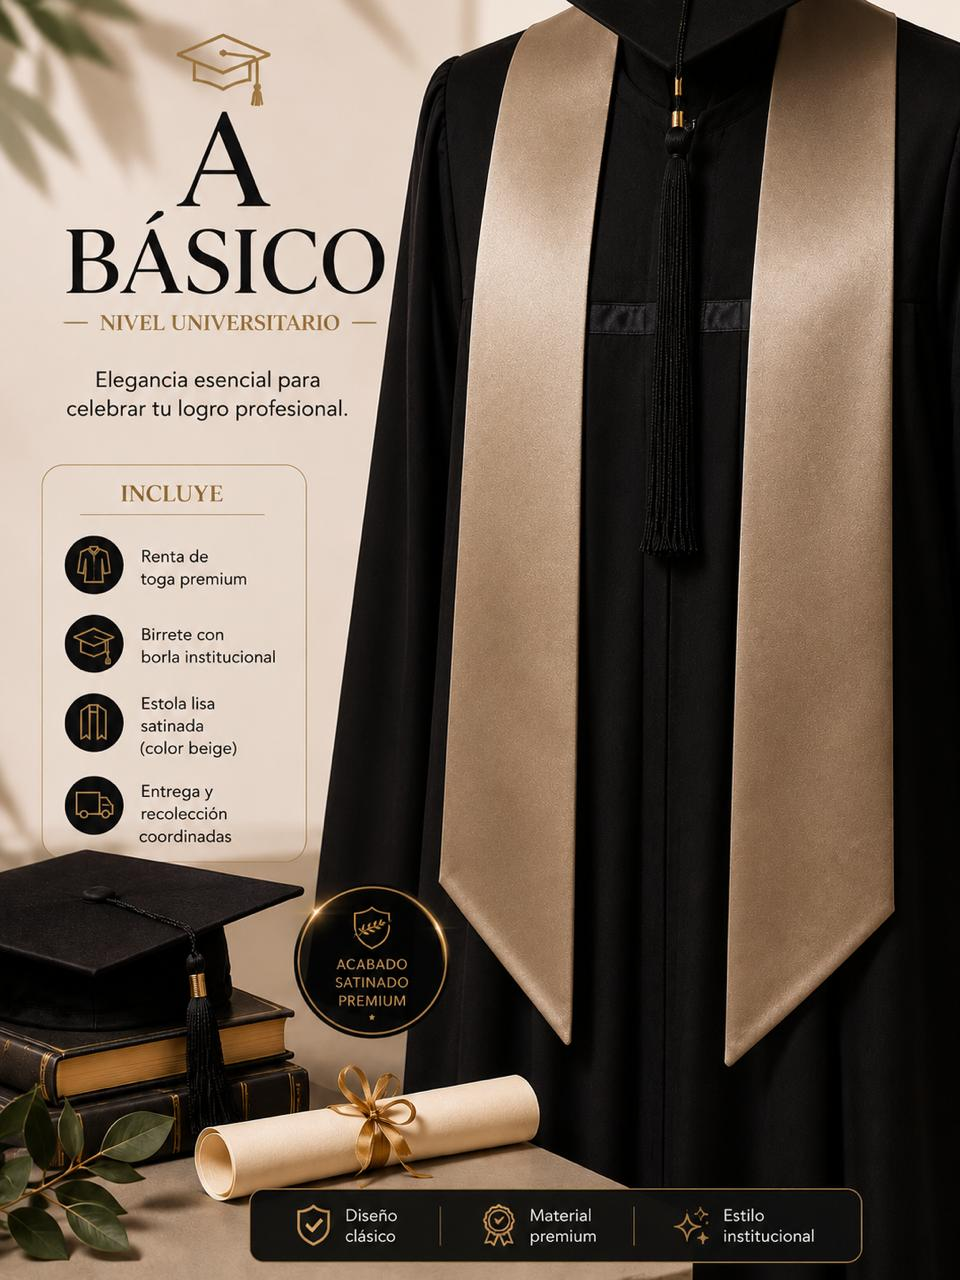
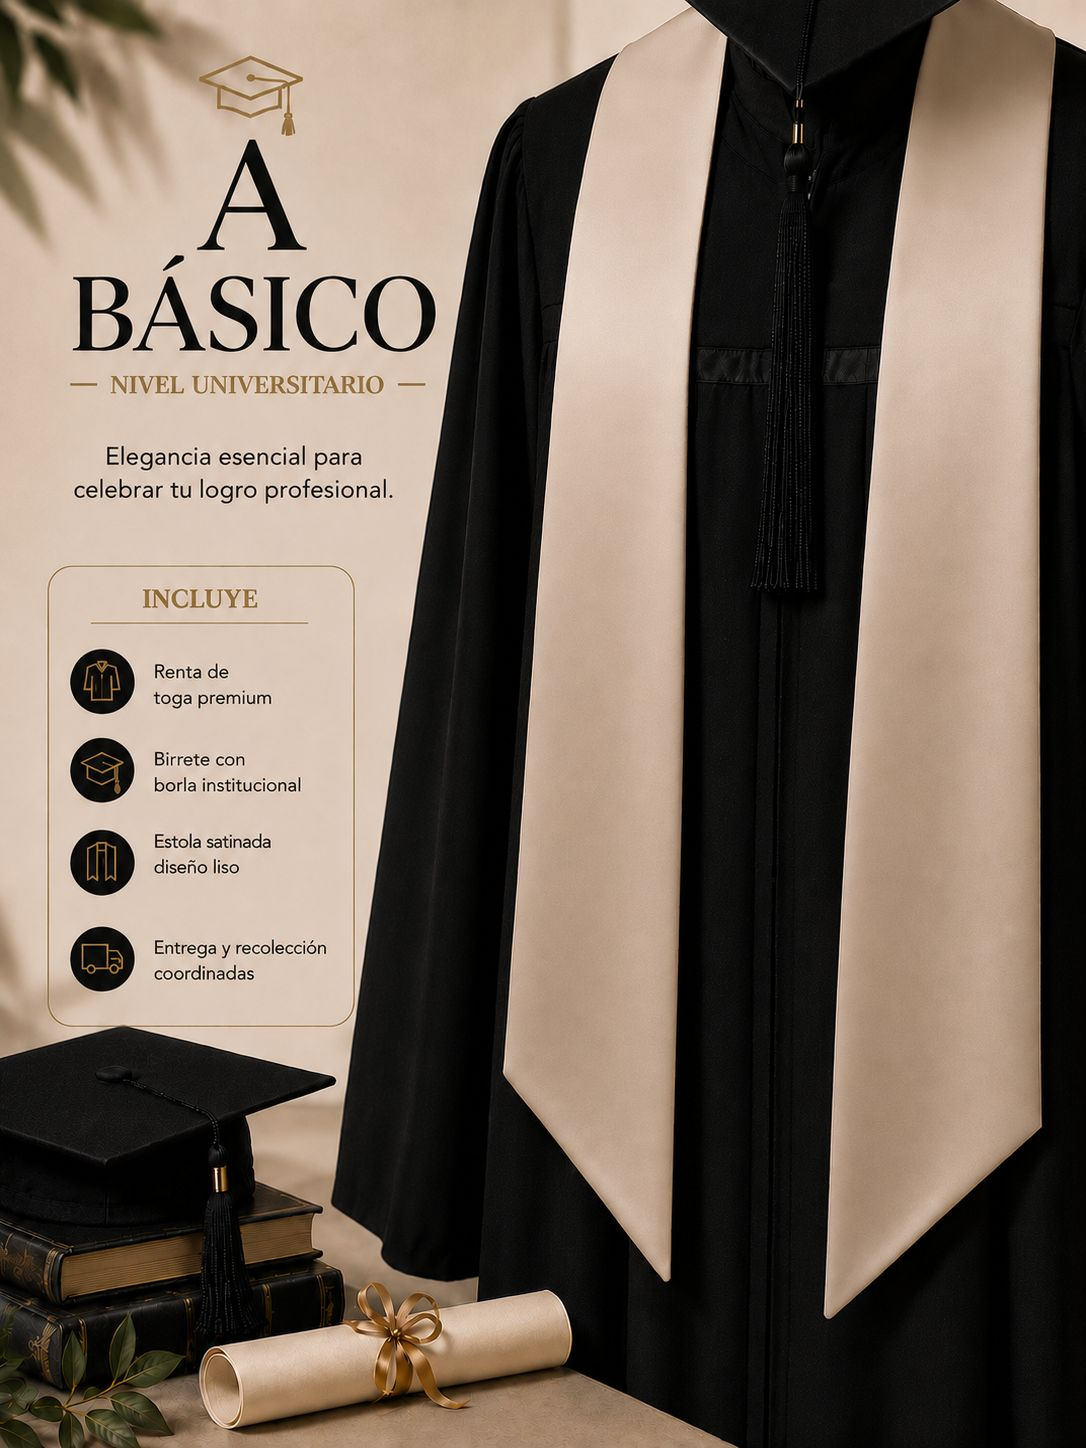
feat: add Paquete C (C1/C2) for Preparatoria and optimize university showcase images

diff --git a/src/components/quoter/StepConfig.tsx b/src/components/quoter/StepConfig.tsx
@@ -50,6 +50,8 @@ import secundariaB2 from "@/assets/Secundaria/B2.jpg";
 import preparatoriaPaqueteANegroDorado from "@/assets/Preparatoria/Paquete A/negro-dorado.jpg";
 import preparatoriaB1 from "@/assets/Preparatoria/B.1.jpg";
 import preparatoriaB2 from "@/assets/Preparatoria/B.2.jpg";
+import preparatoriaC1 from "@/assets/Preparatoria/C1.jpg";
+import preparatoriaC2 from "@/assets/Preparatoria/C2.jpg";
 
 import uniA from "@/assets/Universidad/A.jpg";
 import uniB from "@/assets/Universidad/B.jpg";
@@ -134,6 +136,21 @@ const FEATURES_B_PREP: Record<"prep_a" | "prep_b", { icon: typeof Camera; text: 
   ],
 };
 
+const FEATURES_C_PREP: Record<"prep_c1" | "prep_c2", { icon: typeof Camera; text: string }[]> = {
+  prep_c1: [
+    { icon: Layers, text: "Estola bordada de alta calidad." },
+    { icon: Shirt, text: "Toga, birrete, borla y estola personalizada." },
+    { icon: Truck, text: "Entrega y recolección coordinadas." },
+    { icon: Gem, text: "Calidad premium en cada detalle." },
+  ],
+  prep_c2: [
+    { icon: Layers, text: "Estola bordada premium de alta definición." },
+    { icon: Shirt, text: "Toga, birrete, borla y estola personalizada." },
+    { icon: Truck, text: "Entrega y recolección coordinadas." },
+    { icon: Gem, text: "Calidad premium en cada detalle." },
+  ],
+};
+
 const FEATURES_B_PRI: Record<"pri_a" | "pri_b" | "pri_c", { icon: typeof Camera; text: string }[]> = {
   pri_a: [
     { icon: Camera, text: "Impresión grande en ambos lados (alta visibilidad)." },
@@ -179,6 +196,7 @@ export function StepConfig({
   level, service, city, pkg, quantity, togaColor, stolaColor, onCity, onPkg, onQty, onTogaColor, onStolaColor, canContinue, onContinue,
 }: Props) {
   const isB = pkg?.kind === "B";
+  const isC = pkg?.kind === "C";
   const isSecundaria = level === "secundaria";
   const isPrimaria = level === "primaria";
   const isPreparatoria = level === "preparatoria";
@@ -188,7 +206,10 @@ export function StepConfig({
   const visibleVariants = B_VARIANTS.filter((v) => {
     if (isSecundaria) return v.id.startsWith("sec_");
     if (isPrimaria) return v.id.startsWith("pri_");
-    if (isPreparatoria) return v.id.startsWith("prep_");
+    if (isPreparatoria) {
+      if (pkg?.kind === "C") return v.id === "prep_c1" || v.id === "prep_c2";
+      return v.id === "prep_a" || v.id === "prep_b";
+    }
     if (isUni) return v.id.startsWith("uni_");
     return !v.id.startsWith("sec_") && !v.id.startsWith("pri_") && !v.id.startsWith("prep_") && !v.id.startsWith("uni_");
   });
@@ -202,13 +223,17 @@ export function StepConfig({
     } else {
       features = FEATURES_UNI_B;
     }
-  } else if (pkg?.kind === "B" && pkg.variant) {
+  } else if ((pkg?.kind === "B" || pkg?.kind === "C") && pkg?.variant) {
     if (pkg.variant.startsWith("sec_")) {
       features = FEATURES_B_SEC[pkg.variant as "sec_a" | "sec_b"] || FEATURES_A;
     } else if (pkg.variant.startsWith("pri_")) {
       features = FEATURES_B_PRI[pkg.variant as "pri_a" | "pri_b" | "pri_c"] || FEATURES_A;
     } else if (pkg.variant.startsWith("prep_")) {
-      features = FEATURES_B_PREP[pkg.variant as "prep_a" | "prep_b"] || FEATURES_A;
+      if (pkg.kind === "C") {
+        features = FEATURES_C_PREP[pkg.variant as "prep_c1" | "prep_c2"] || FEATURES_A;
+      } else {
+        features = FEATURES_B_PREP[pkg.variant as "prep_a" | "prep_b"] || FEATURES_A;
+      }
     } else {
       features = FEATURES_B[pkg.variant as "hybrid" | "max"] || FEATURES_A;
     }
@@ -285,6 +310,10 @@ export function StepConfig({
         if (pkg.variant === "prep_b") return preparatoriaB1;
         if (pkg.variant === "prep_a") return preparatoriaB2;
         return preparatoriaB1; // fallback
+      } else if (pkg?.kind === "C") {
+        if (pkg.variant === "prep_c1") return preparatoriaC1;
+        if (pkg.variant === "prep_c2") return preparatoriaC2;
+        return preparatoriaC1; // fallback
       }
     } else if (level === "universidad") {
       if (pkg?.kind === "A") {
@@ -431,14 +460,27 @@ export function StepConfig({
               ) : (
                 <>
                   <div className="relative inline-flex w-full rounded-full border border-hairline bg-muted/40 p-1">
-                    {(["A", "B"] as const).map((k) => {
+                    {(level === "preparatoria" ? (["A", "B", "C"] as const) : (["A", "B"] as const)).map((k) => {
                       const active = pkg?.kind === k;
-                      const label = k === "A" ? "Paquete A — Básico" : "Paquete B — Personalizado";
+                      let label = "";
+                      if (k === "A") label = "Paquete A — Básico";
+                      else if (k === "B") label = "Paquete B — Personalizado";
+                      else label = "Paquete C — Bordado";
+                      
                       return (
                         <button
                           key={k}
                           type="button"
-                          onClick={() => onPkg({ kind: k })}
+                          onClick={() => {
+                            if (k === "C") {
+                              onPkg({ kind: "C", variant: "prep_c1" });
+                            } else if (k === "B") {
+                              const variant = level === "preparatoria" ? "prep_b" : undefined;
+                              onPkg({ kind: "B", variant });
+                            } else {
+                              onPkg({ kind: "A" });
+                            }
+                          }}
                           className="relative flex-1 px-4 py-2.5 text-xs sm:text-sm font-medium rounded-full cursor-pointer focus:outline-none focus-visible:ring-2 focus-visible:ring-ring"
                         >
                           {active && (
@@ -458,9 +500,9 @@ export function StepConfig({
 
                   {/* Variants */}
                   <AnimatePresence initial={false} mode="wait">
-                    {isB && (
+                    {(isB || isC) && (
                       <motion.div
-                        key="b-variants"
+                        key={pkg?.kind === "C" ? "c-variants" : "b-variants"}
                         initial={{ height: 0, opacity: 0 }}
                         animate={{ height: "auto", opacity: 1 }}
                         exit={{ height: 0, opacity: 0 }}
@@ -469,12 +511,12 @@ export function StepConfig({
                       >
                         <div className="pt-4 space-y-2.5">
                           {visibleVariants.map((v) => {
-                            const active = pkg?.kind === "B" && pkg.variant === v.id;
+                            const active = (pkg?.kind === "B" || pkg?.kind === "C") && pkg.variant === v.id;
                             return (
                               <button
                                 key={v.id}
                                 type="button"
-                                onClick={() => onPkg({ kind: "B", variant: v.id })}
+                                onClick={() => onPkg({ kind: pkg?.kind || "B", variant: v.id })}
                                 className={cn(
                                   "w-full flex items-center justify-between gap-4 rounded-xl border px-4 py-3.5 text-left transition-colors cursor-pointer",
                                   "focus:outline-none focus-visible:ring-2 focus-visible:ring-ring",

diff --git a/src/lib/pricing.ts b/src/lib/pricing.ts
@@ -9,10 +9,11 @@ export type Level =
 
 export type ServiceType = "renta" | "venta";
 export type City = "tijuana" | "ensenada";
-export type PackageBVariant = "hybrid" | "max" | "sec_a" | "sec_b" | "pri_a" | "pri_b" | "pri_c" | "prep_a" | "prep_b" | "uni_b" | "uni_c";
+export type PackageBVariant = "hybrid" | "max" | "sec_a" | "sec_b" | "pri_a" | "pri_b" | "pri_c" | "prep_a" | "prep_b" | "prep_c1" | "prep_c2" | "uni_b" | "uni_c";
 export type PackageChoice =
   | { kind: "A" }
-  | { kind: "B"; variant?: PackageBVariant };
+  | { kind: "B"; variant?: PackageBVariant }
+  | { kind: "C"; variant?: PackageBVariant };
 
 export const LEVELS: { id: Level; label: string; icon: LucideIcon }[] = [
   { id: "preescolar", label: "Preescolar", icon: Shapes },
@@ -89,6 +90,8 @@ export const PRICES = {
   UNI_C: 720,      // Universidad/Posgrado Opción C (Bordado Premium)
   PREP_A: 550,     // Preparatoria Diseño A (Mixto)
   PREP_B: 500,     // Preparatoria Diseño B (Discreto)
+  PREP_C1: 600,    // Preparatoria Diseño C1 (Bordado Sencillo)
+  PREP_C2: 720,    // Preparatoria Diseño C2 (Bordado Premium)
 } as const;
 
 export const B_VARIANTS: {
@@ -104,6 +107,8 @@ export const B_VARIANTS: {
   { id: "sec_a", code: "B.2", title: "Diseño B2", desc: "Impresión mixta (institucional + discreta)", price: PRICES.SEC_A },
   { id: "prep_b", code: "B.1", title: "Diseño B1", desc: "Impresión discreta en ambos lados", price: PRICES.PREP_B },
   { id: "prep_a", code: "B.2", title: "Diseño B2", desc: "Impresión mixta (institucional + discreta)", price: PRICES.PREP_A },
+  { id: "prep_c1", code: "C.1", title: "Diseño C1", desc: "Estola bordada de alta calidad", price: PRICES.PREP_C1 },
+  { id: "prep_c2", code: "C.2", title: "Diseño C2", desc: "Estola bordada premium de alta definición", price: PRICES.PREP_C2 },
   { id: "pri_c", code: "B.1", title: "Básico Funcional", desc: "Impresión sencilla en ambos lados (9 x 12 cm)", price: PRICES.PRI_C },
   { id: "pri_b", code: "B.2", title: "Clásico Equilibrado", desc: "Impresión grande en un lado (9 x 28 cm) y chica en el otro (9 x 12 cm).", price: PRICES.PRI_B },
   { id: "pri_a", code: "B.3", title: "Clásico Destacado", desc: "Impresión grande en ambos lados 9 x 28 cm", price: PRICES.PRI_A },
@@ -133,8 +138,12 @@ export function packageLabel(pkg?: PackageChoice, level?: Level): string {
     return v.title;
   }
   const v = B_VARIANTS.find((x) => x.id === pkg.variant);
-  if (!v) return "Paquete B — Personalizado";
-  return `Paquete B — ${v.code} ${v.title}`;
+  if (!v) {
+    if (pkg.kind === "C") return "Paquete C — Bordado";
+    return "Paquete B — Personalizado";
+  }
+  const prefix = pkg.kind === "C" ? "Paquete C" : "Paquete B";
+  return `${prefix} — ${v.code} ${v.title}`;
 }
 
 export function levelLabel(l?: Level): string {

diff --git a/src/components/quoter/Quoter.tsx b/src/components/quoter/Quoter.tsx
@@ -78,7 +78,7 @@ export function Quoter() {
     else localStorage.removeItem("kt-quote-number");
   }, [step, level, service, city, pkg, quantity, school, contact, phone, date, email, quoteNumber, togaColor, stolaColor]);
 
-  const total = useMemo(() => unitPrice(pkg) * quantity, [pkg, quantity]);
+  const total = useMemo(() => unitPrice(pkg, level) * quantity, [pkg, level, quantity]);
 
   // Save to Supabase
   useEffect(() => {

diff --git a/src/components/quoter/StepSummary.tsx b/src/components/quoter/StepSummary.tsx
@@ -33,7 +33,7 @@ type Props = {
 };
 
 export function StepSummary({ level, city, pkg, quantity, school, contact, phone, date, email, quoteNumber, service, togaColor, stolaColor, onEditStep }: Props) {
-  const unit = unitPrice(pkg);
+  const unit = unitPrice(pkg, level);
   const total = unit * quantity;
 
   const rows = [